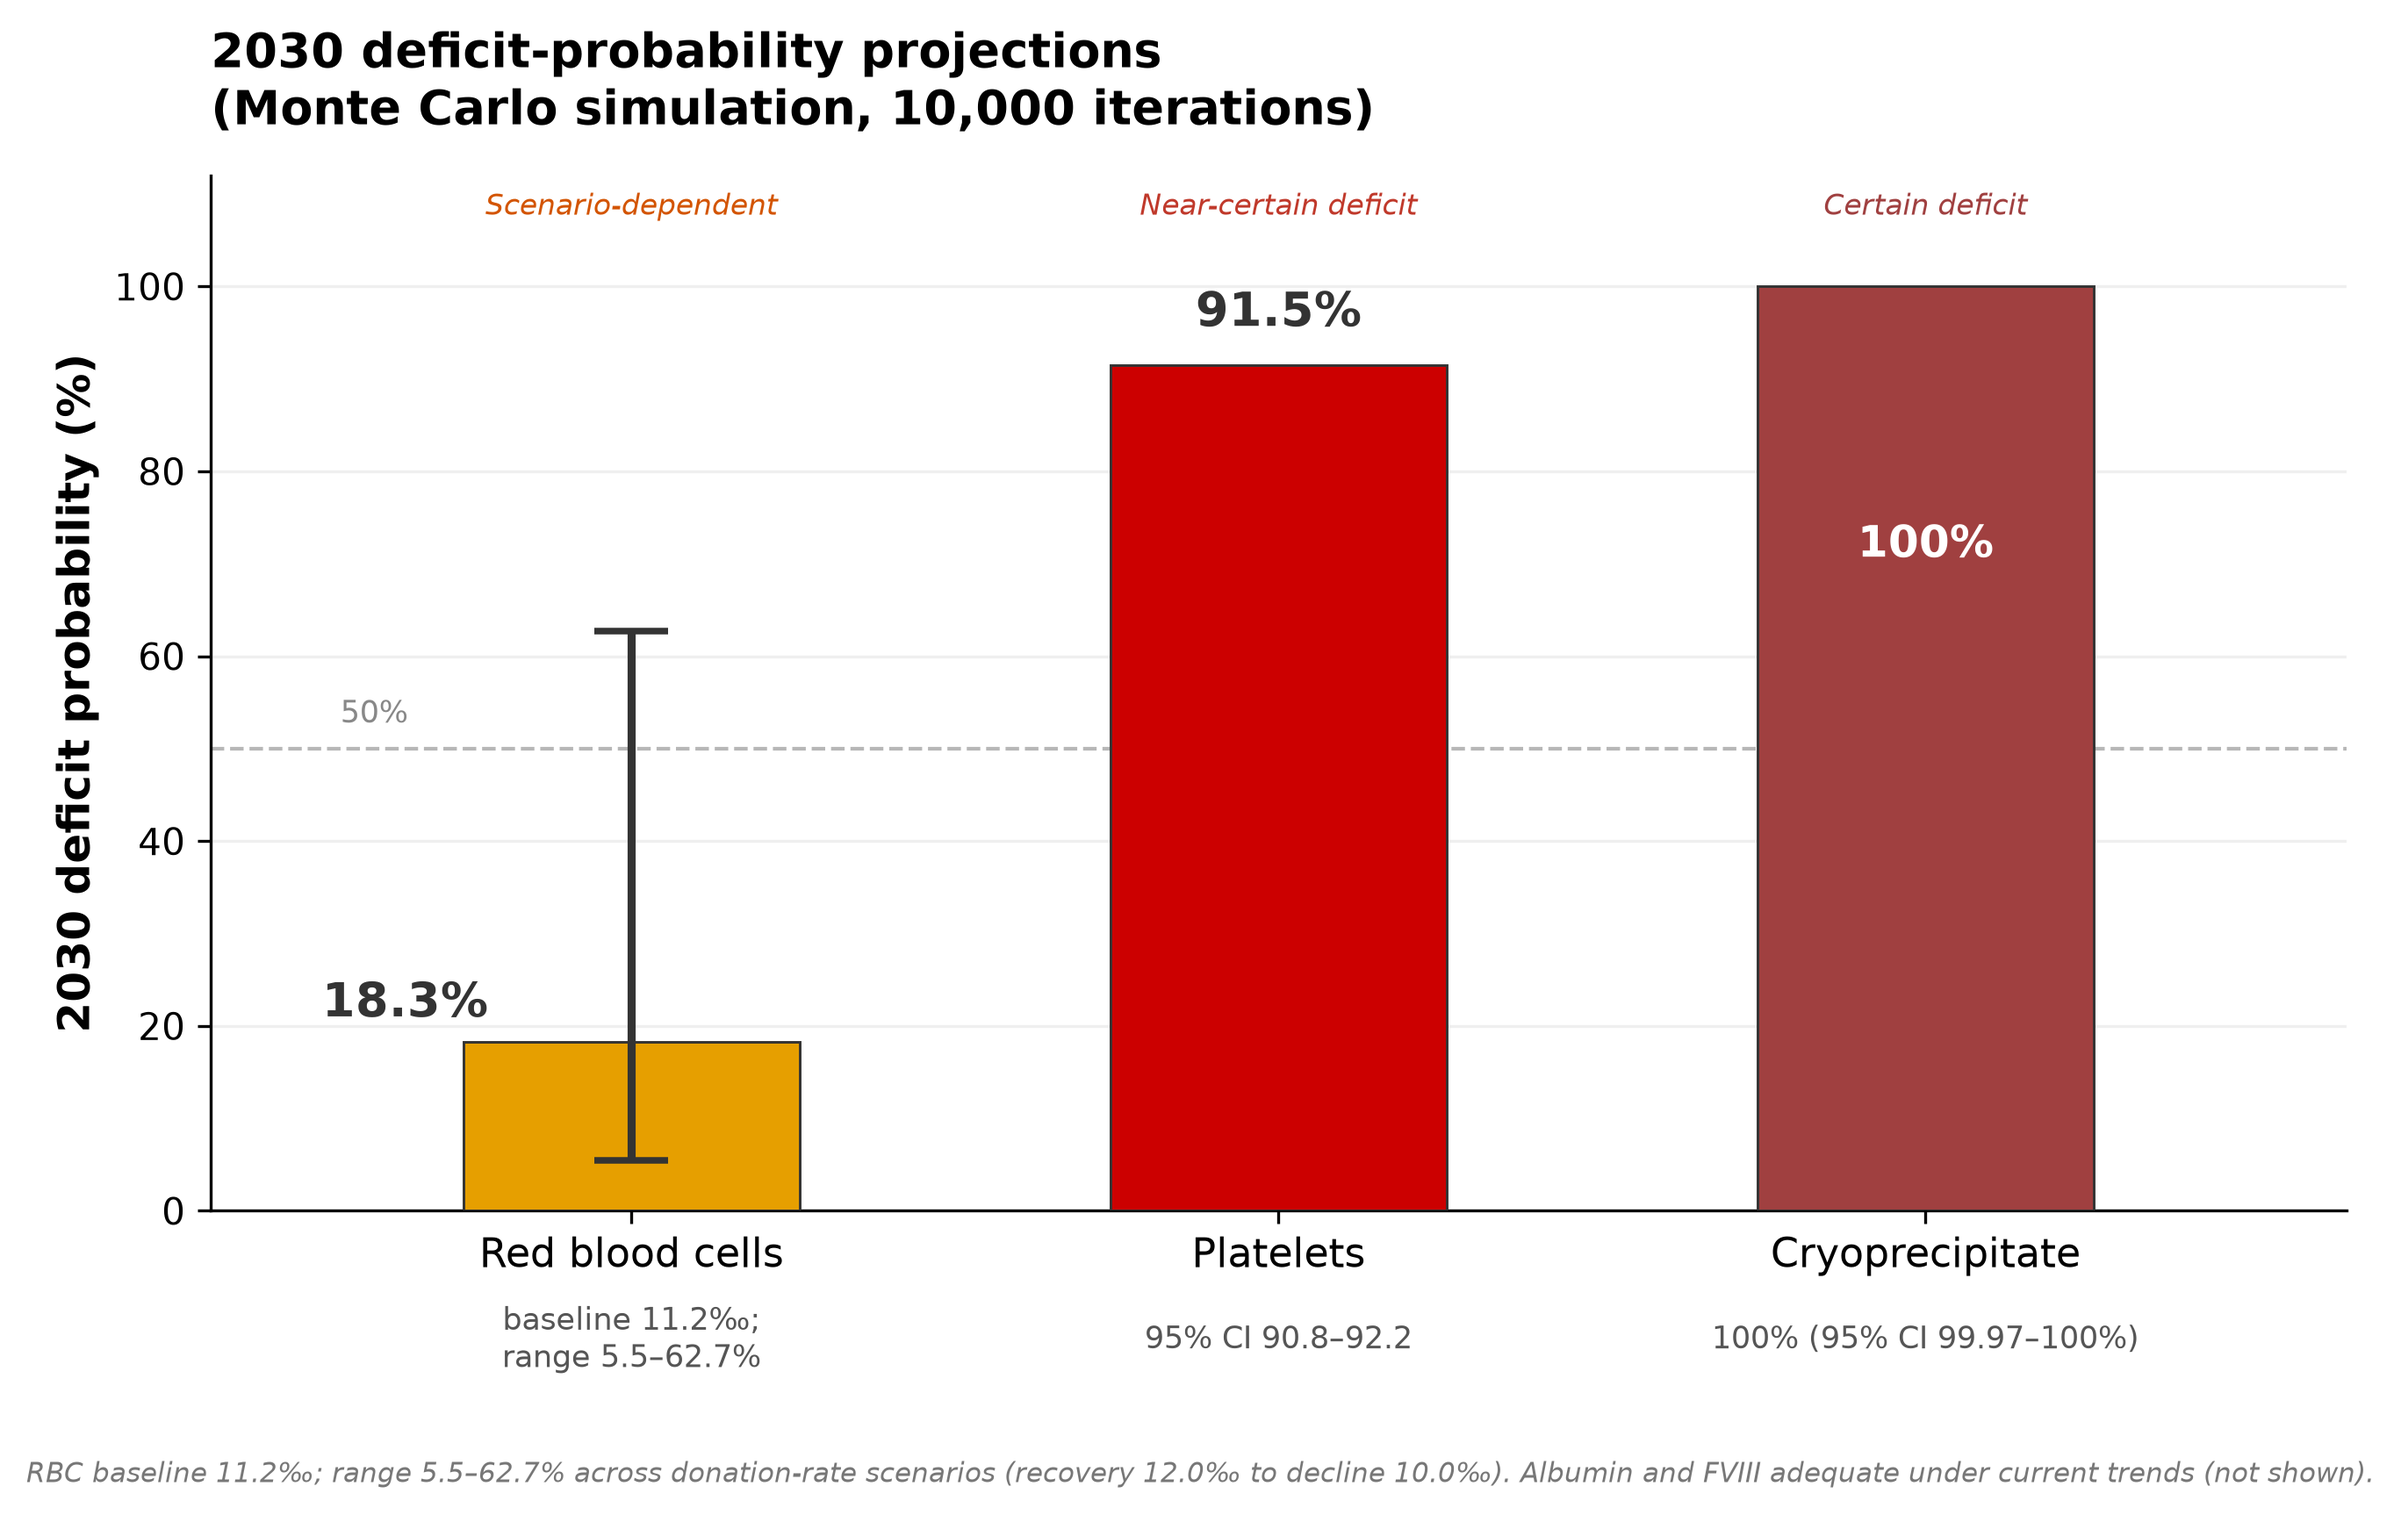
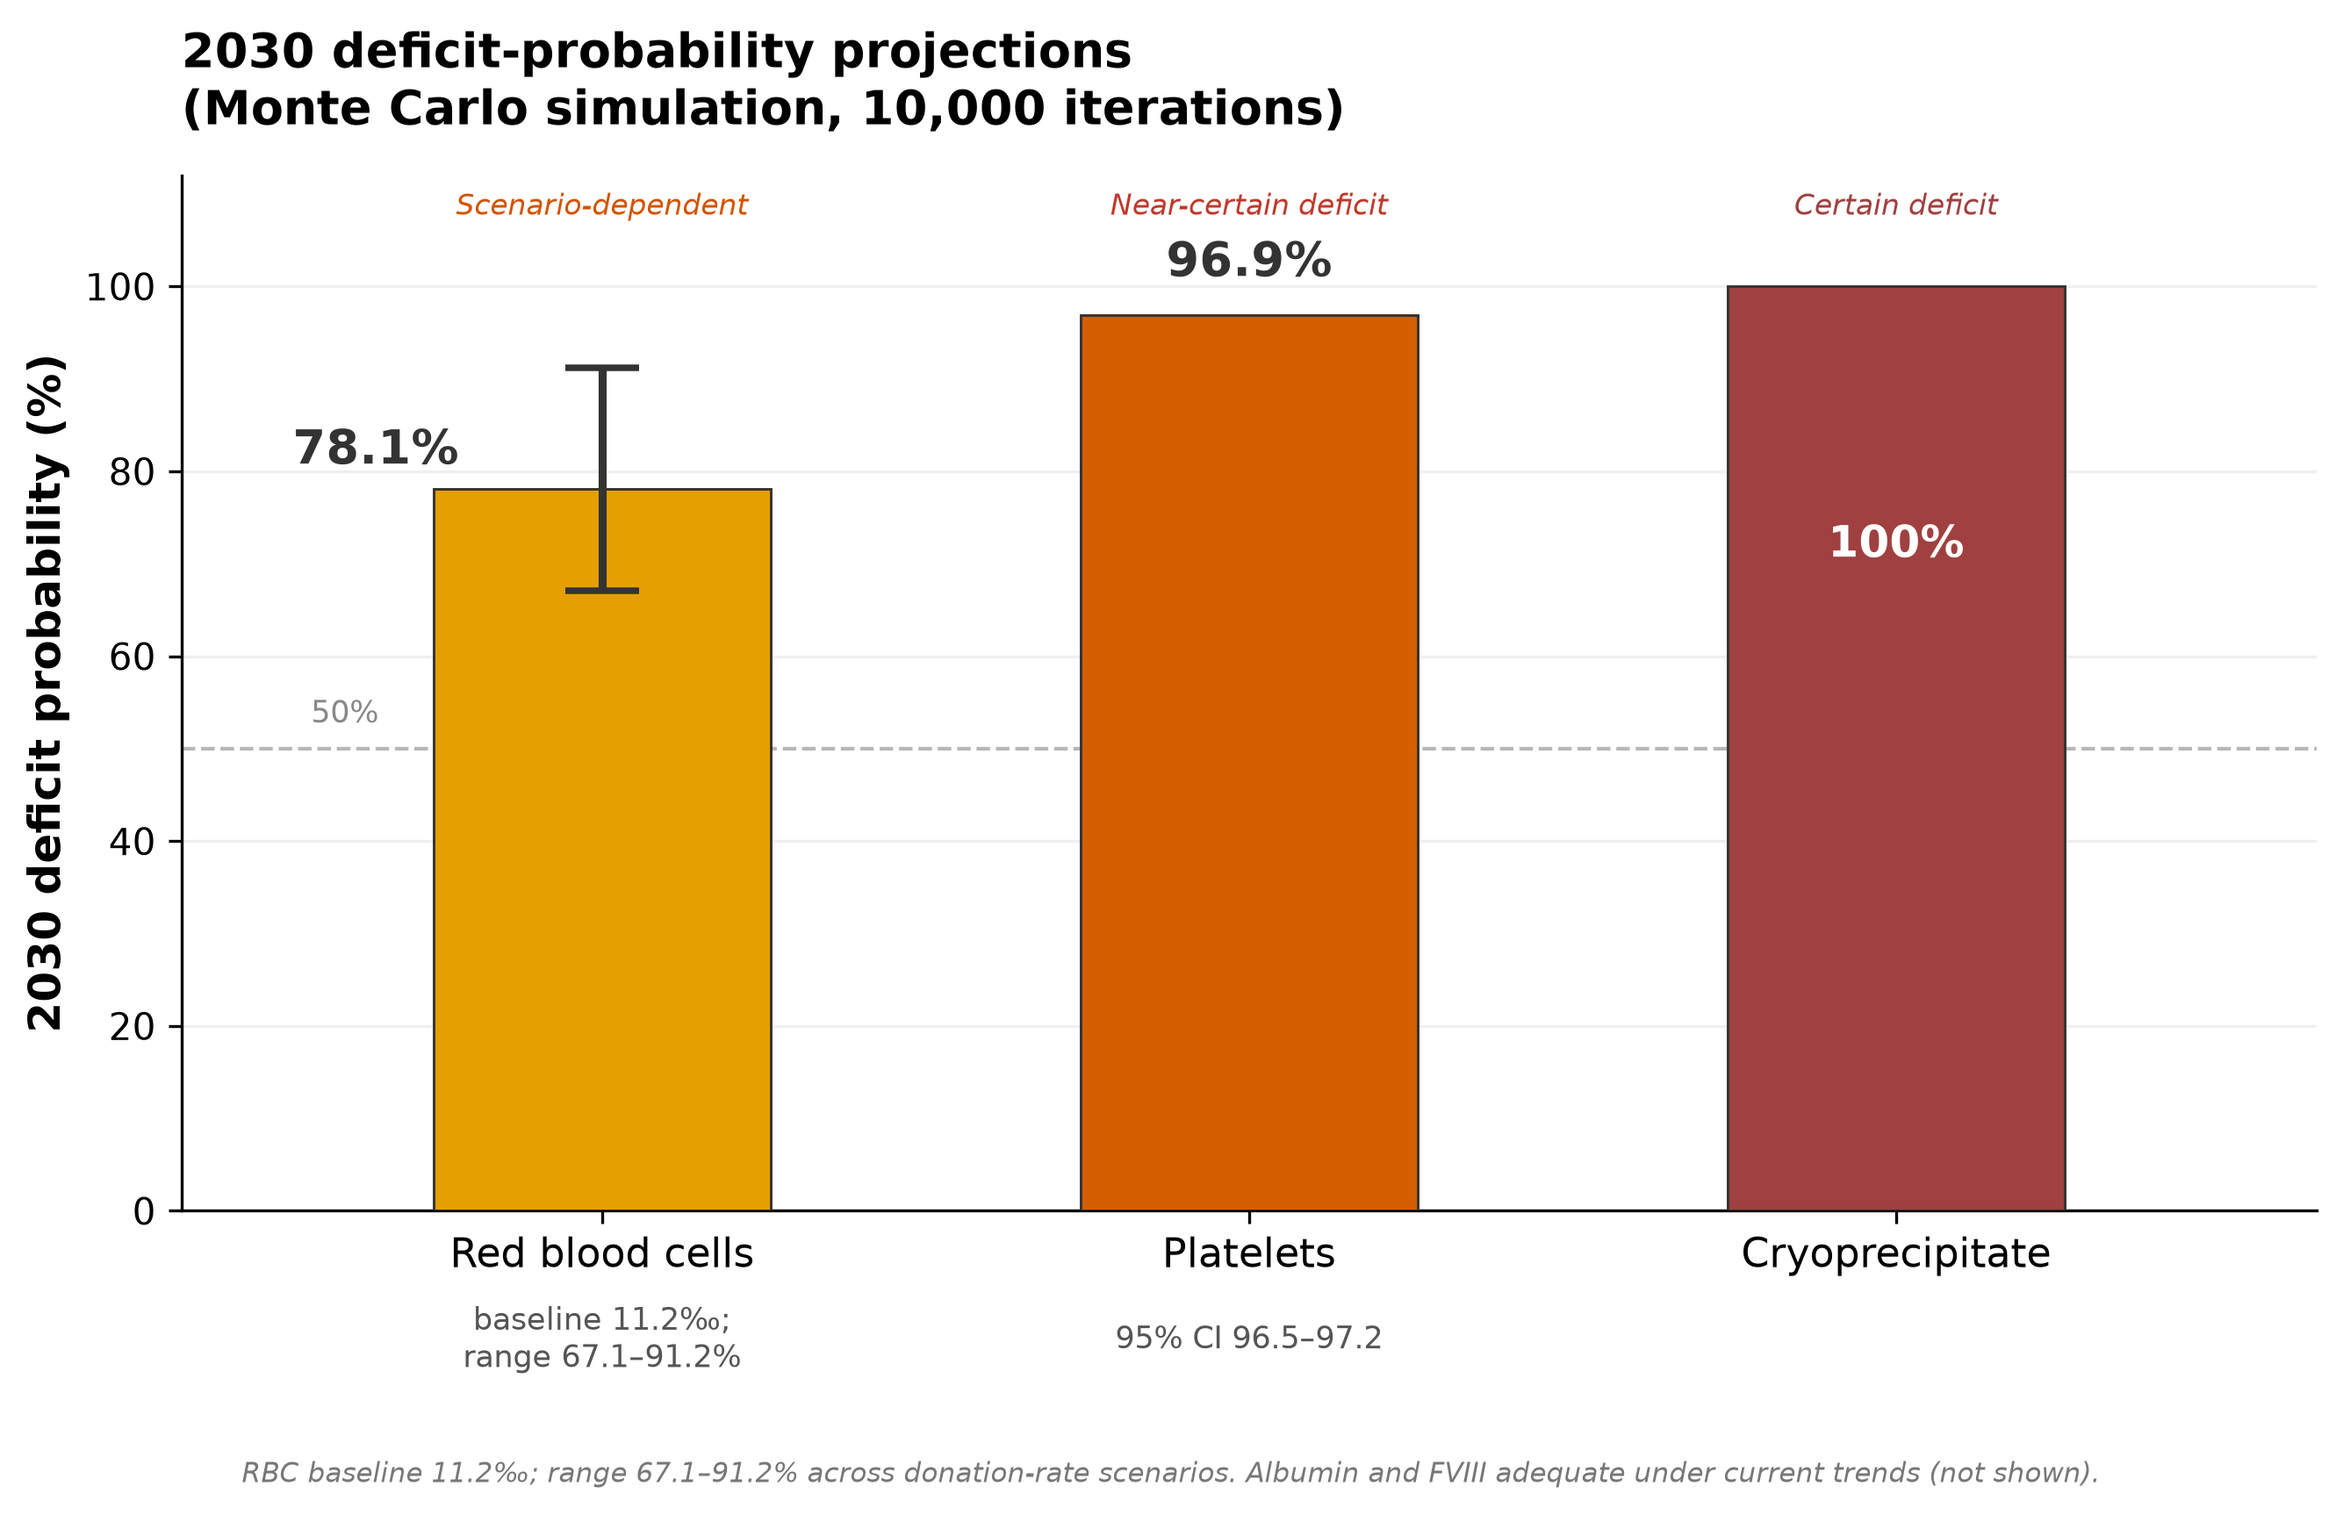
Sync figures/Figure3-4 to reconstructed values and update README for dps_cm.py
Replace the stale Vox-era figures (91.5%/18.3%) in figures/ with the
reconstructed Monte Carlo figures (96.9%/78.1%) so the repository shows a
single consistent set of numbers. Rewrite README to document dps_cm.py,
monte_carlo_results.json, the key parameters with provenance, and the
reconstructed 2030 deficit probabilities.

diff --git a/README.md b/README.md
@@ -1,45 +1,55 @@
-# Projected platelet shortage and red-cell supply–demand balance in an ageing China
+# DPS-CM blood supply–demand model for China
 
 Reproducible code and data for the manuscript:
 
-**Projected platelet shortage and red-cell supply–demand balance in an ageing China: a compartmental model validated against three city blood centres**
+**Extending platelet shelf life and expanding apheresis capacity to avert projected platelet and red-cell deficits in China: a compartmental model of blood supply and demand**
 
-Zhensheng Dai, MD — Department of Hematology, Shanghai Pudong Hospital, Fudan University Pudong Medical Center, Shanghai, China.
+Zhensheng Dai — Department of Hematology, Shanghai Pudong Hospital, Fudan University Pudong Medical Center, Shanghai, China.
 
 ## Overview
 
-This repository contains the Python implementation of the DPS-CM (Disease–Population–Supply Compartmental Model) and the complete replication scripts for all figures, tables, and statistics reported in the manuscript. The model couples disease-specific demand (16 disease categories × 6 blood products), demographic projection (Leslie matrix, UN World Population Prospects 2024), and supply capacity with demand-elasticity feedback, and is validated against operational data from the Shanghai, Beijing, and Shenzhen blood centres (2022–2024).
+This repository contains the full, runnable DPS-CM (Disease–Population–Supply Compartmental Model), reconstructed from first principles. The earlier version reported deficit probabilities as hard-coded "anchor" values; `dps_cm.py` replaces those with a transparent 10,000-iteration Monte Carlo simulation whose parameters carry explicit provenance.
 
-## Contents
+## Core files
 
 | File | Purpose |
 |---|---|
-| `generate_figures_vox.py` | Generates all four figures (Fig. 1–4) from the actual historical and model data embedded in the script. No hard-coded growth-rate extrapolation — all time series are real recorded statistics. |
-| `convert_to_docx_vox.py` | Converts the manuscript source (Markdown) to the submission-ready Word document. |
-| `Manuscript_VoxSanguinis.md` | Full manuscript source (Markdown). |
-| `Cover_Letter_Vox.md` | Cover letter source. |
-| `data_verification.md` | Data provenance ledger: every figure/table value, its source, and the values corrected during review. |
-| `figures/Figure1.png` … `Figure4.png` | The four manuscript figures (RGB, 300 dpi). |
-
-## Data sources
-
-All input data are publicly available aggregate statistics: national blood-collection and donation-rate figures (National Health Commission statistical bulletins), demographic projections (UN World Population Prospects 2024), regional operational data from the Shanghai, Beijing, and Shenzhen blood centres, and international comparators (Japan Red Cross, Korean Red Cross, Paul-Ehrlich-Institut). Full provenance and correction history are documented in `data_verification.md`. No individual patient data were used.
-
-## Requirements
-
-- Python 3.9+
-- numpy, scipy, pandas, statsmodels, matplotlib
-
-```bash
-pip install numpy scipy pandas statsmodels matplotlib
-```
+| `dps_cm.py` | Full model: Monte Carlo simulation, Wilson 95% CI, sensitivity analysis, and Figure 3/4 generation |
+| `monte_carlo_results.json` | Deficit probabilities and 95% CIs |
+| `Figure3_deficit_probabilities.png/.pdf` | 2030 deficit probabilities (also in `figures/Figure3.*`) |
+| `Figure4_donation_rate_scenario.png/.pdf` | Red-cell deficit vs donation rate (also in `figures/Figure4.*`) |
 
 ## Reproduction
 
 ```bash
-python generate_figures_vox.py   # regenerates Fig 1–4 as PNG and PDF
-python convert_to_docx_vox.py    # rebuilds the manuscript .docx
+python3 dps_cm.py            # runs the 10,000-iteration Monte Carlo, prints results
+python3 dps_cm.py --figures  # also regenerates Figure 3 and Figure 4 (PNG/PDF)
 ```
+
+Requirements: Python 3.9+, numpy. (`--figures` additionally needs matplotlib.)
+
+## Key parameters (with provenance)
+
+- RBC demand growth 2.5%/yr — ageing-weighted (population 65+ rising 15.2%→20%, patients 60+ using 42% of blood)
+- Platelet demand growth 8%/yr (first-tier cities); platelet supply growth 1.5%/yr
+- Demand uncertainty ±15% (driven by the 59.7% unclassified residual); supply uncertainty ±10%
+- Monte Carlo: 10,000 iterations, seed 42; Wilson score interval for binomial proportions
+
+## Key results (2030)
+
+| Component | Deficit probability |
+|---|---|
+| Cryoprecipitate | 100% (deterministic) |
+| Platelets | 96.9% (95% CI 96.5–97.2) |
+| Red cells — baseline (11.2‰) | 78.1% |
+| Red cells — recovery (12.0‰) | 67.1% |
+| Red cells — decline (10.0‰) | 91.2% |
+
+Sensitivity (RBC demand growth 1.5% / 2.5% / 3.5% per yr): baseline deficit 69.2% / 78.2% / 86.0% — the near-certain deficit is robust to the growth assumption.
+
+## Earlier files
+
+`generate_figures_vox.py`, `Manuscript_VoxSanguinis.md`, `Cover_Letter_Vox.md`, and `data_verification.md` are the earlier Vox Sanguinis submission version (superseded). `dps_cm.py` and `monte_carlo_results.json` are the current, reproducible model and its results.
 
 ## License
 
